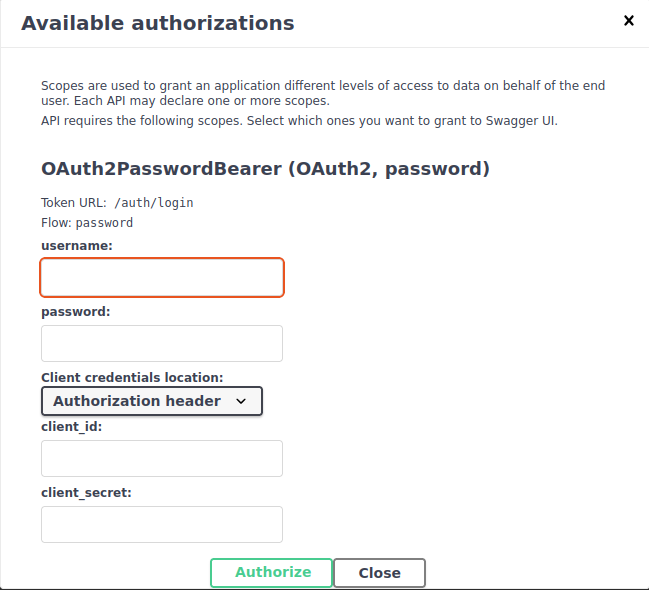
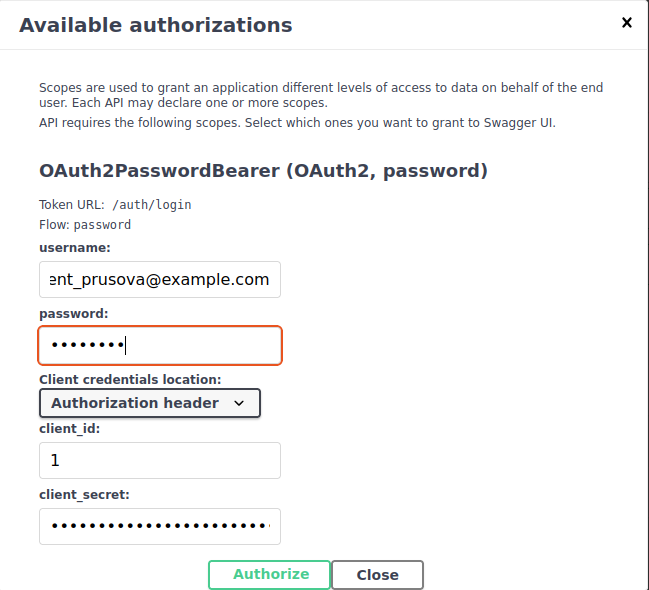
Доработана документация про авторизацию

diff --git a/llm-p/docs/login/login.md b/llm-p/docs/login/login.md
@@ -39,7 +39,7 @@
 
 ![401_response.png](401_response.png)
 
-## Форма авторизации
+## Авторизация через Swagger
 
 ![auth_form.png](auth_form.png)
 
